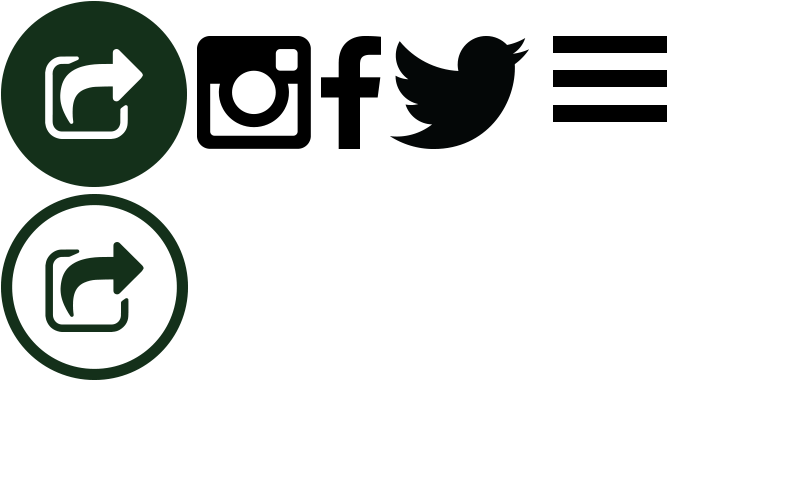
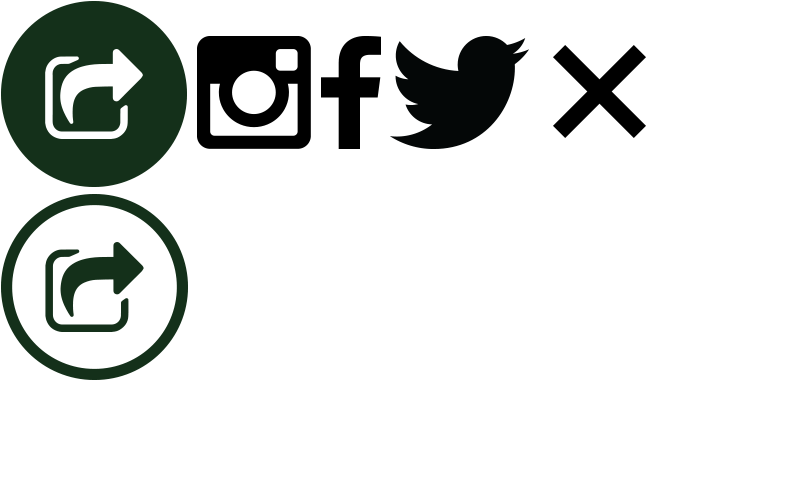
Fixes !
+  JQuary fix
+ Mobile Menu Fix
+ Footer Fixes
+ and Other Fixes

Changed region(s): [[0.7005, 0.0621, 0.8528, 0.2795]]

diff --git a/style.css b/style.css
@@ -198,8 +198,9 @@ img#logo{
 ***/
 
 nav {
-	right: 0;
-	top: 0;
+	width: 70%;
+	margin: auto;
+	padding-bottom: 14px;
 }
 /*
 #mob-menu {
@@ -217,7 +218,7 @@ nav {
 	cursor: pointer;
 }*/
 
-/*.mob-menu-icon {
+/*#x{
 	display: block;
 	background-image: url("img/randoms_icon.png");
 	background-repeat: no-repeat;
@@ -232,8 +233,7 @@ nav {
 
 .menu {
 	display: none;
-	position: fixed;
-	padding-top: 40px;
+	padding-top: 20px;
 	z-index: 1;
 	top: 0;
 	left: 0;
@@ -242,7 +242,7 @@ nav {
 	background-color: #39A617;
 }
 
-#home, #aboutus, #prizes, #winners {
+#home, #aboutus, #prizes, #winners, #campaign {
 	font-size: 40px;
 	color: #F8F8F8;
 }
@@ -250,12 +250,13 @@ nav {
 nav li a:active {
 	border: solid 1px #FFFFFF;
 	border-radius: 20px;
-	width: 100px;
 }
 
 nav li{
+	margin: auto;
+	text-align: center;
 	list-style: none;
-	margin: 10px;
+	padding-bottom: 4px;
 }
 
 /***
@@ -393,7 +394,7 @@ FOOOTER STYLING
 	width: 72px;
 	height: 71px;
 	bottom: 0;
-	right: 0;
+	left: 0;
 	margin: 7px;
 }
 
@@ -403,6 +404,7 @@ FOOOTER STYLING
 
 footer{
 	position: fixed;
+	width: 100%;
 	bottom: 0;
 }
 
@@ -415,24 +417,23 @@ footer{
 	bottom: 0;
 }
 
-footer .nestle {
-	position: fixed;
-	color: #000000;
-	margin: 10px;
-}
-
 footer h1 {
 	font-size: 20px;
 	margin: 10px;
+	float: right;
 	color: #FFFFFF;
 }
 
-#content {
+#mobile-menu {
+	visibility: hidden;
+}
+
+#social-position {
 	text-align: right;
 	position: fixed;
-	right: 0;
+	left: 0;
 	bottom: 0;
-	padding: 30px 25px;
+	padding: 46px 25px;
 	height: 20px;
 }
 
@@ -499,13 +500,13 @@ ul.socialm:after {
 	display: block;
 	z-index: -1;
 	position: absolute;
-	right: 0;
+	left: 0;
 	margin: 35px auto;
 	height: 0;
 	width: 0;
 	border-left: 20px solid transparent;
 	border-right: 20px solid transparent;
-	border-top: 20px solid #E63737;
+	border-top: 20px solid #6CDFEA;
 }
 
 ul.socialm li[class*="twitter"] {
@@ -622,6 +623,7 @@ ul.socialm li[class*="instagram"] {
 		margin-top: 0;
 		margin-bottom: 0;
 		font-family: "Amatic SC";
+		cursor: pointer;
 	}
 
 	.hide{
@@ -635,6 +637,7 @@ ul.socialm li[class*="instagram"] {
 	footer h1{
 		font-size: 22px;
 		margin: 10px;
+		float: right;
 	}
 
 	h2{
@@ -684,15 +687,19 @@ ul.socialm li[class*="instagram"] {
 	}
 
 	#mobile-menu{
+		visibility: visible;
 		font-size: 2.5em;
 		position: fixed;
 		bottom: 10px;
-		right: 150px;
+		right: 0;
+		left: 0;
+		margin: auto;
+		width: 100px;
+		text-align: center;
 		background-color: #39A617;
 		color:white;
 		padding:0em 0.2em;
 		font-family: "Amatic SC";
-
 	}
 
 	#main-content-wrapper{
@@ -711,12 +718,13 @@ ul.socialm li[class*="instagram"] {
 		margin-left: none;
 	}
 
-	#content {
+	#social-position {
 		text-align: right;
 		position: fixed;
-		right: 0;
+		left: 0;
 		bottom: 0;
 		height: 5px;
+		padding: 24px 8px;
 	}
 }
 

diff --git a/js/scripts.js b/js/scripts.js
@@ -93,7 +93,7 @@ $(function(){
 
 
 /* NAV Mobile slide */
-  $('#mobile-menu, #prizes, #winners, #aboutus, #home').click(function () {
+  $('#mobile-menu, #prizes, #winners, #aboutus, #home, #campaign').click(function () {
   $('.menu').slideToggle(200);
 	return false;
 });
@@ -109,26 +109,29 @@ $(function(){
       $("#wrapper").animate({"margin-left":"-100%"});
       });
 
-    $(".sub-menu, #home").click(function(e){
+    $(".sub-menu, #home, .home").click(function(e){
         $("#wrapper").animate({"margin-left" : "0"});
+		 $("footer h1").css('color', '#FFFFFF');
         return false;
     });
-
-
-
-	$(".link, #main-wrapper, #main-content-wrapper").click(function(e){
-	e.stopPropagation();
-	$("footer h1").css('visibility', 'hidden');
-	$(".nestle").css('visibility', 'visible');
+	
+	$("#aboutus, #campaign, #prizes, #winners").click(function(e){
+	$("footer h1").css('color', '#000000');
 	return false;
     });
 
-	$(".back, #back-button, #home, #main-wrapper, #main-content-wrapper").click(function(e){
+	$("#home").click(function(e){
 	e.stopPropagation();
-	$("footer h1").css('visibility', 'visible');
-	$(".nestle").css('visibility', 'hidden');
+	$("footer h1").css('color', '#FFFFFF');
 	return false;
     });
+	
+	$(".winners").click(function(e){
+	e.stopPropagation();
+	$("footer h1").css('color', '#000000');
+	return false;
+    });
+
 
 
 

diff --git a/index.php b/index.php
@@ -31,6 +31,7 @@
     <body>
         <!-- entire site wrapper -->
         <div id="wrapper">
+
             <!-- main menu/content on the left side of the site -->
             <div id="main-wrapper">
                 <!-- wrapper for all the content within this side of the site -->
@@ -41,17 +42,6 @@
                 </div>
                 <section id="main-content-wrapper">
                 <div class="click-background"></div>
-
-                    <!-- Mobile Navigation -->
-                    <nav>
-                        <section class="menu">
-                            <li><a href="#" id="home">Home</a></li>
-                            <li><a href="#" class="link aboutus" id="aboutus">About Us</a></li>
-                            <li><a href="#" class="link campaign" id="campaign">The Campaign</a></li>
-                            <li><a href="#" class="link prizes" id="prizes">Prizes</a></li>
-                            <li><a href="index.php" class="link winners" id="winners">Winners</a></li>
-                        </section>
-                    </nav>
 
                     <h2>
                         Hej Denmark! We're <a href="index.php" class="link aboutus"><img id='logo' src="img/originallogo.png" alt="randoms"/></a>
@@ -108,10 +98,21 @@
 
         </div> <!-- entire site wrapper -->
         <footer>
+		 <!-- Mobile Navigation -->
+                    <nav>
+                        <section class="menu">
+                            <!--<span id="x"></span>-->
+                            <li><a href="#" id="home">Home</a></li>
+                            <li><a href="#" class="link aboutus" id="aboutus">About Us</a></li>
+                            <li><a href="#" class="link campaign" id="campaign">The Campaign</a></li>
+                            <li><a href="#" class="link prizes" id="prizes">Prizes</a></li>
+                            <li><a href="index.php" class="link winners" id="winners">Winners</a></li>
+                        </section>
+                    </nav>
             <h1>© 2014 Nestlé</h1>
 
             <main>
-                <div id="content">
+                <div id="social-position">
                     <span id='mobile-menu'>Menu</span>
                     <input type="checkbox" class="checkbox" id="share">
                     <label for="share" class="label entypo-export" id="share-button"></label>
